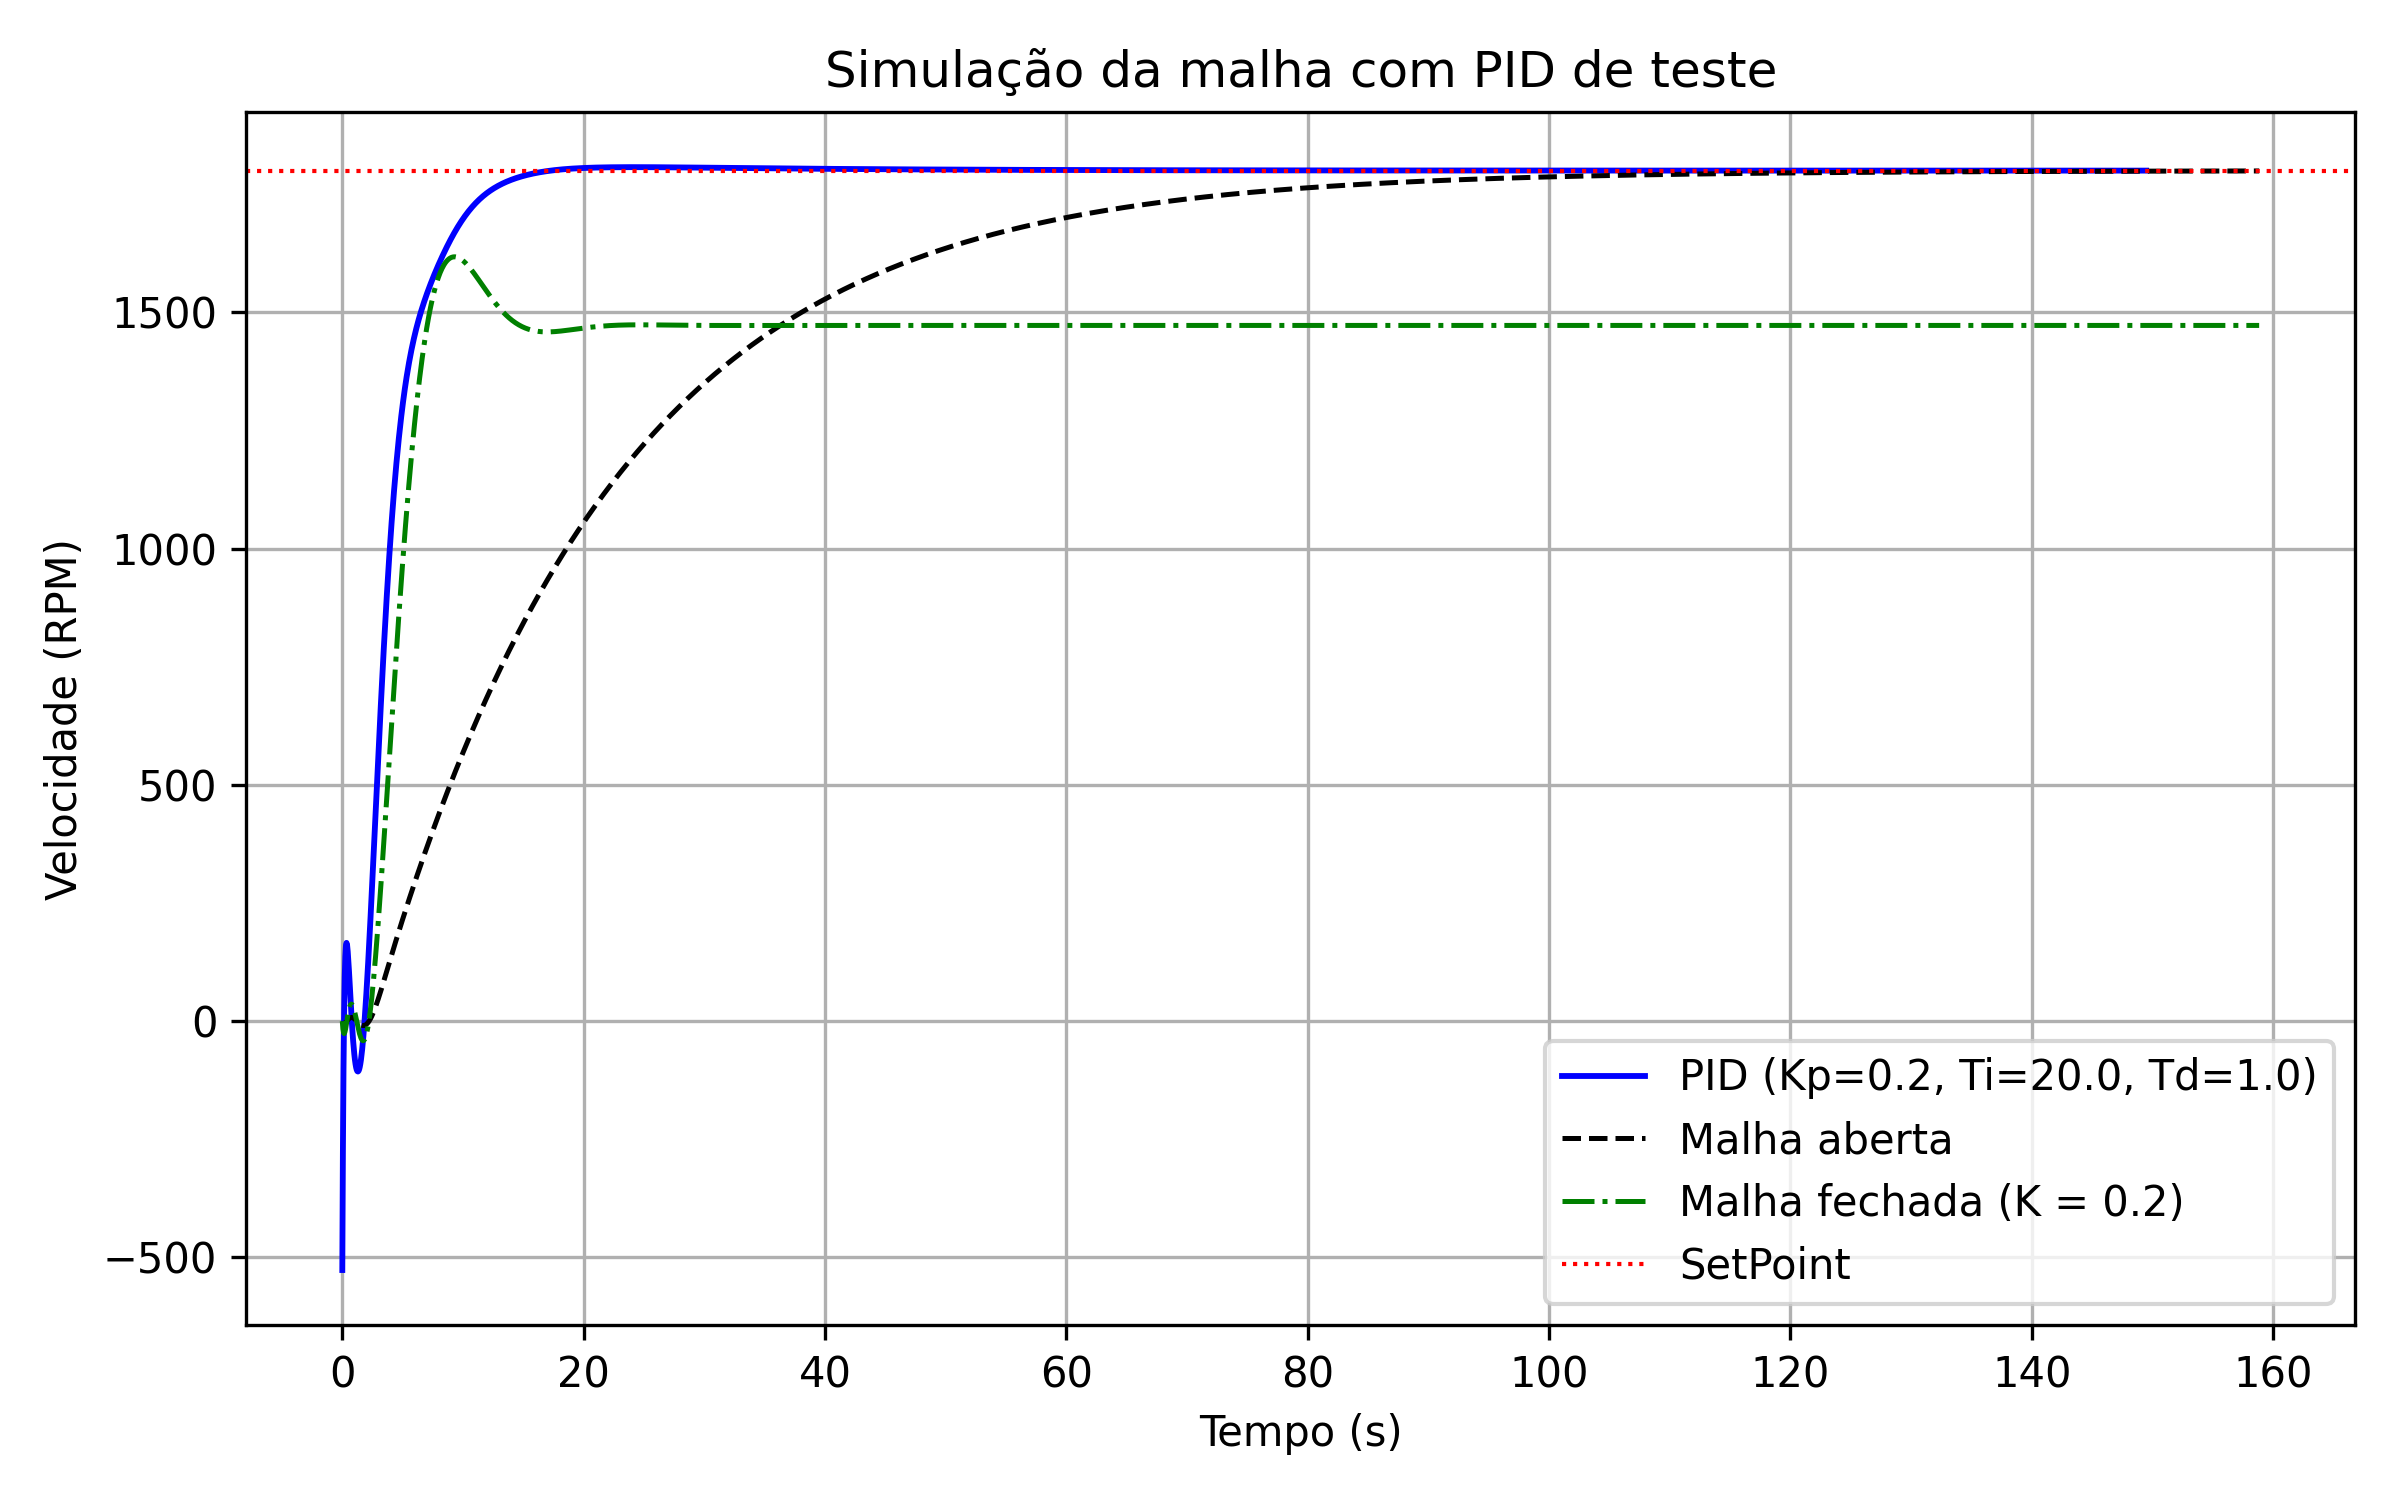
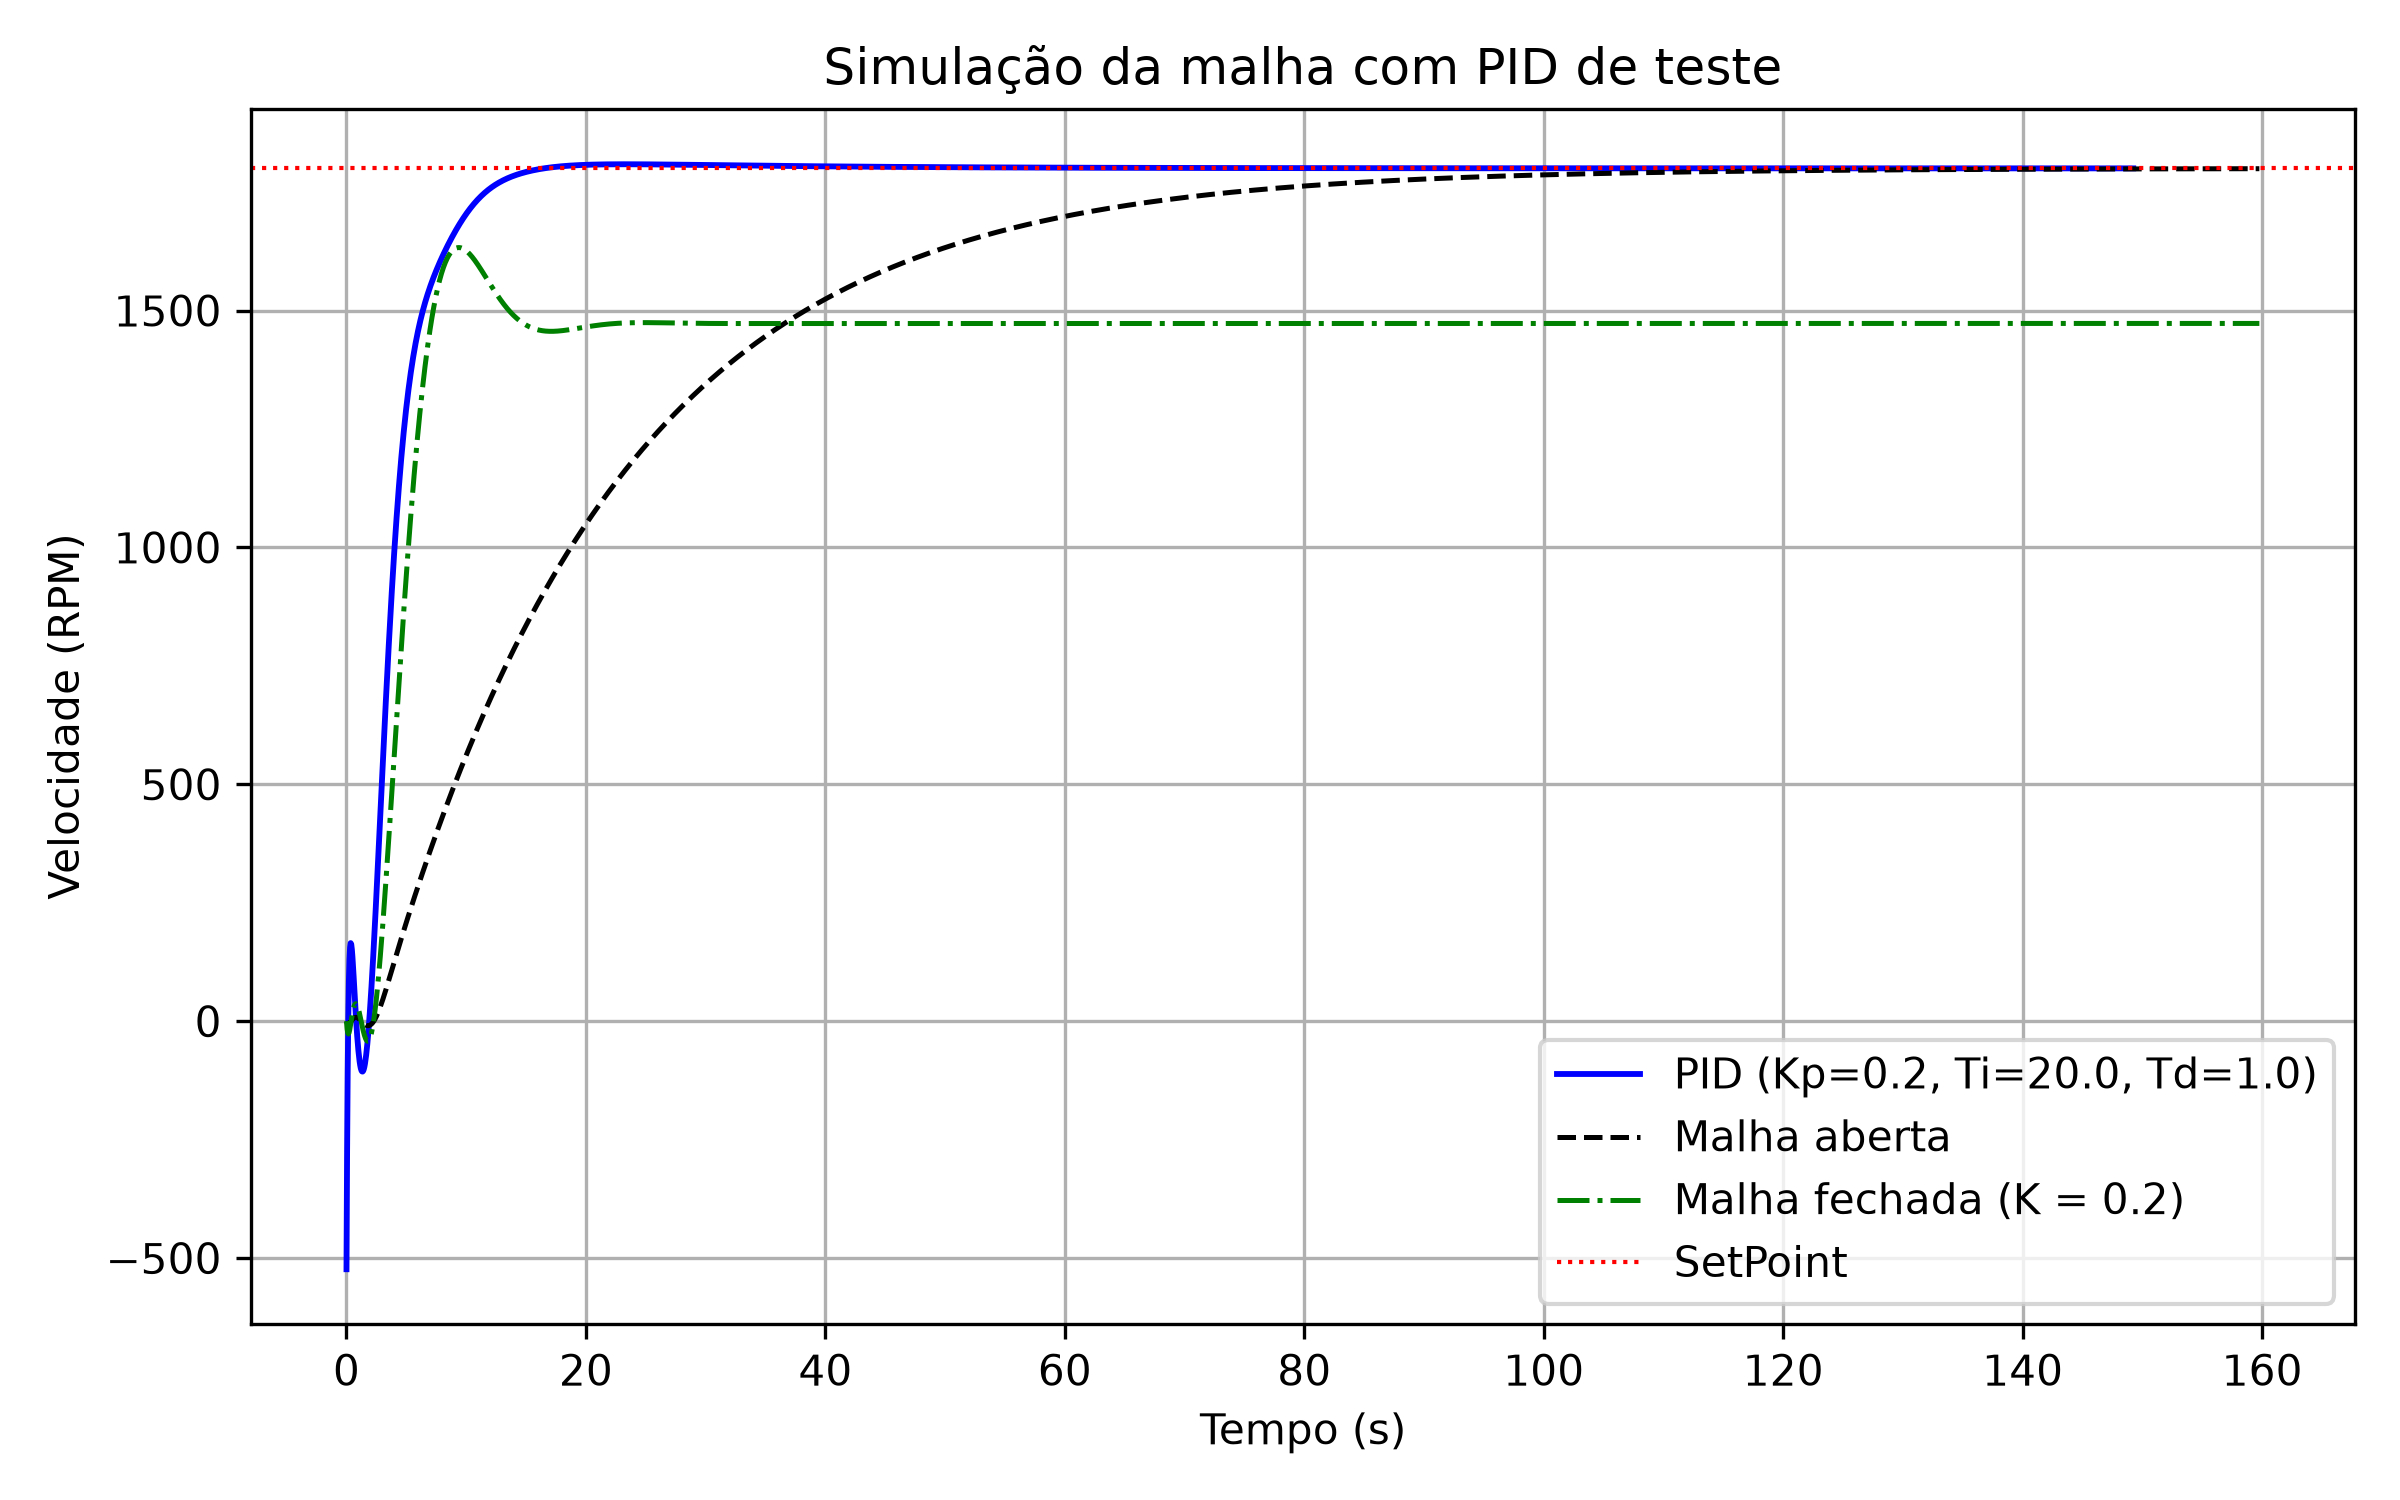
refactor: adota o modelo do ajuste fino em todo o projeto
- carregar_modelo() passa a usar o modelo ajustado por padrão
- exemplo da sintonia Cohen-Coon lê o modelo do JSON
- exemplo da sintonia Cohen-Coon lê o modelo do JSON
- atualiza docs/cohen_coon.txt e README com os valores do modelo ajustado
- restaura o EQM do modelo de Smith no JSON

diff --git a/identificação/sintonia_cohen_coon.py b/identificação/sintonia_cohen_coon.py
@@ -1,4 +1,6 @@
-from dataclasses import dataclass
+import json
+from dataclasses import dataclass
+from pathlib import Path
 
 
 @dataclass(frozen=True)
@@ -22,9 +24,9 @@ def cohen_coon(k: float, tau: float, theta: float) -> ParametrosPID:
 
 
 if __name__ == "__main__":
-    k = 22.471578476721454
-    tau = 19.85614984454135
-    theta = 2.4673804124325507
+    with open(Path(__file__).with_name("modelo_identificado.json"), encoding="utf-8") as f:
+        modelo = json.load(f)["ajustado"]
+    k, tau, theta = modelo["k"], modelo["tau"], modelo["theta"]
 
     parametros = cohen_coon(k, tau, theta)
 

diff --git a/controle/malha_fechada.py b/controle/malha_fechada.py
@@ -13,8 +13,8 @@ GANHO_PADRAO = 0.2  # K da malha fechada do item 4, ~1/3 do ganho crítico
 N_PONTOS = 3000
 
 
-def carregar_modelo(caminho=CAMINHO_MODELO, ajustado=False):
-    """Lê k, tau e theta do JSON; ajustado=True usa o bloco do ajuste fino."""
+def carregar_modelo(caminho=CAMINHO_MODELO, ajustado=True):
+    """Lê k, tau e theta do JSON; usa o modelo do ajuste fino, ou o de Smith com ajustado=False."""
     with open(caminho, encoding="utf-8") as f:
         dados = json.load(f)
     if ajustado:

diff --git a/README.md b/README.md
@@ -68,11 +68,11 @@ from controle.malha_fechada import simular_malha_fechada, simular_sem_controlado
 |---|---|---|
 | `simular_malha_fechada(kp, ti, td, setpoint=1800)` | Malha fechada com PID e degrau de SetPoint | `(t, y, metricas)` |
 | `simular_sem_controlador(setpoint=1800, ganho=0.2)` | Malha aberta (degrau Δu = SP/k) e malha fechada só com ganho K, no mesmo vetor de tempo | `{"aberta": (t, y, metricas), "fechada": (t, y, metricas)}` |
-| `ganho_critico()` | Ganho crítico Kcr da planta, calculado com o atraso exato | `float` (≈ 0,59) |
-| `carregar_modelo(ajustado=False)` | Lê k, τ e θ do JSON; `ajustado=True` usa o modelo do ajuste fino | `{"k", "tau", "theta"}` |
+| `ganho_critico()` | Ganho crítico Kcr da planta, calculado com o atraso exato | `float` (≈ 0,58) |
+| `carregar_modelo(ajustado=True)` | Lê k, τ e θ do JSON; por padrão usa o modelo do ajuste fino, e `ajustado=False` usa o de Smith | `{"k", "tau", "theta"}` |
 
 Parâmetros opcionais que todas as funções de simulação aceitam:
-- **`modelo=`**: dicionário de `carregar_modelo()`. Se não for passado, usa o modelo de Smith.
+- **`modelo=`**: dicionário de `carregar_modelo()`. Se não for passado, usa o modelo do ajuste fino, que tem o menor EQM e é o adotado pelo grupo em todas as partes.
 - **`ordem_pade=3`**: ordem da aproximação de Padé.
 - **`t_final=`**: duração da simulação. Se não for passado, é escolhida automaticamente.
 
@@ -108,7 +108,7 @@ for nome in ("aberta", "fechada"):
         print(m["aviso"])
 ```
 
-A malha fechada leva um ganho **K** no caminho direto. Com K = 1, ela é instável, porque o ganho crítico da planta é ≈ 0,59. Com K = 0,2, ela é bem mais rápida que a malha aberta (tempo de subida de 3,5 s contra 43,6 s e acomodação de 13 s contra 80 s), mas para em ≈ 1472 RPM: sobra um erro em regime de ≈ 18 %, que só a ação integral do PID elimina.
+A malha fechada leva um ganho **K** no caminho direto. Com K = 1, ela é instável, porque o ganho crítico da planta é ≈ 0,58. Com K = 0,2, ela é bem mais rápida que a malha aberta (tempo de subida de 3,5 s contra 43,9 s e acomodação de 13,5 s contra 80,7 s), mas para em ≈ 1473 RPM: sobra um erro em regime de ≈ 18 %, que só a ação integral do PID elimina.
 
 ### Exemplo: item 5 (PID sintonizado)
 
